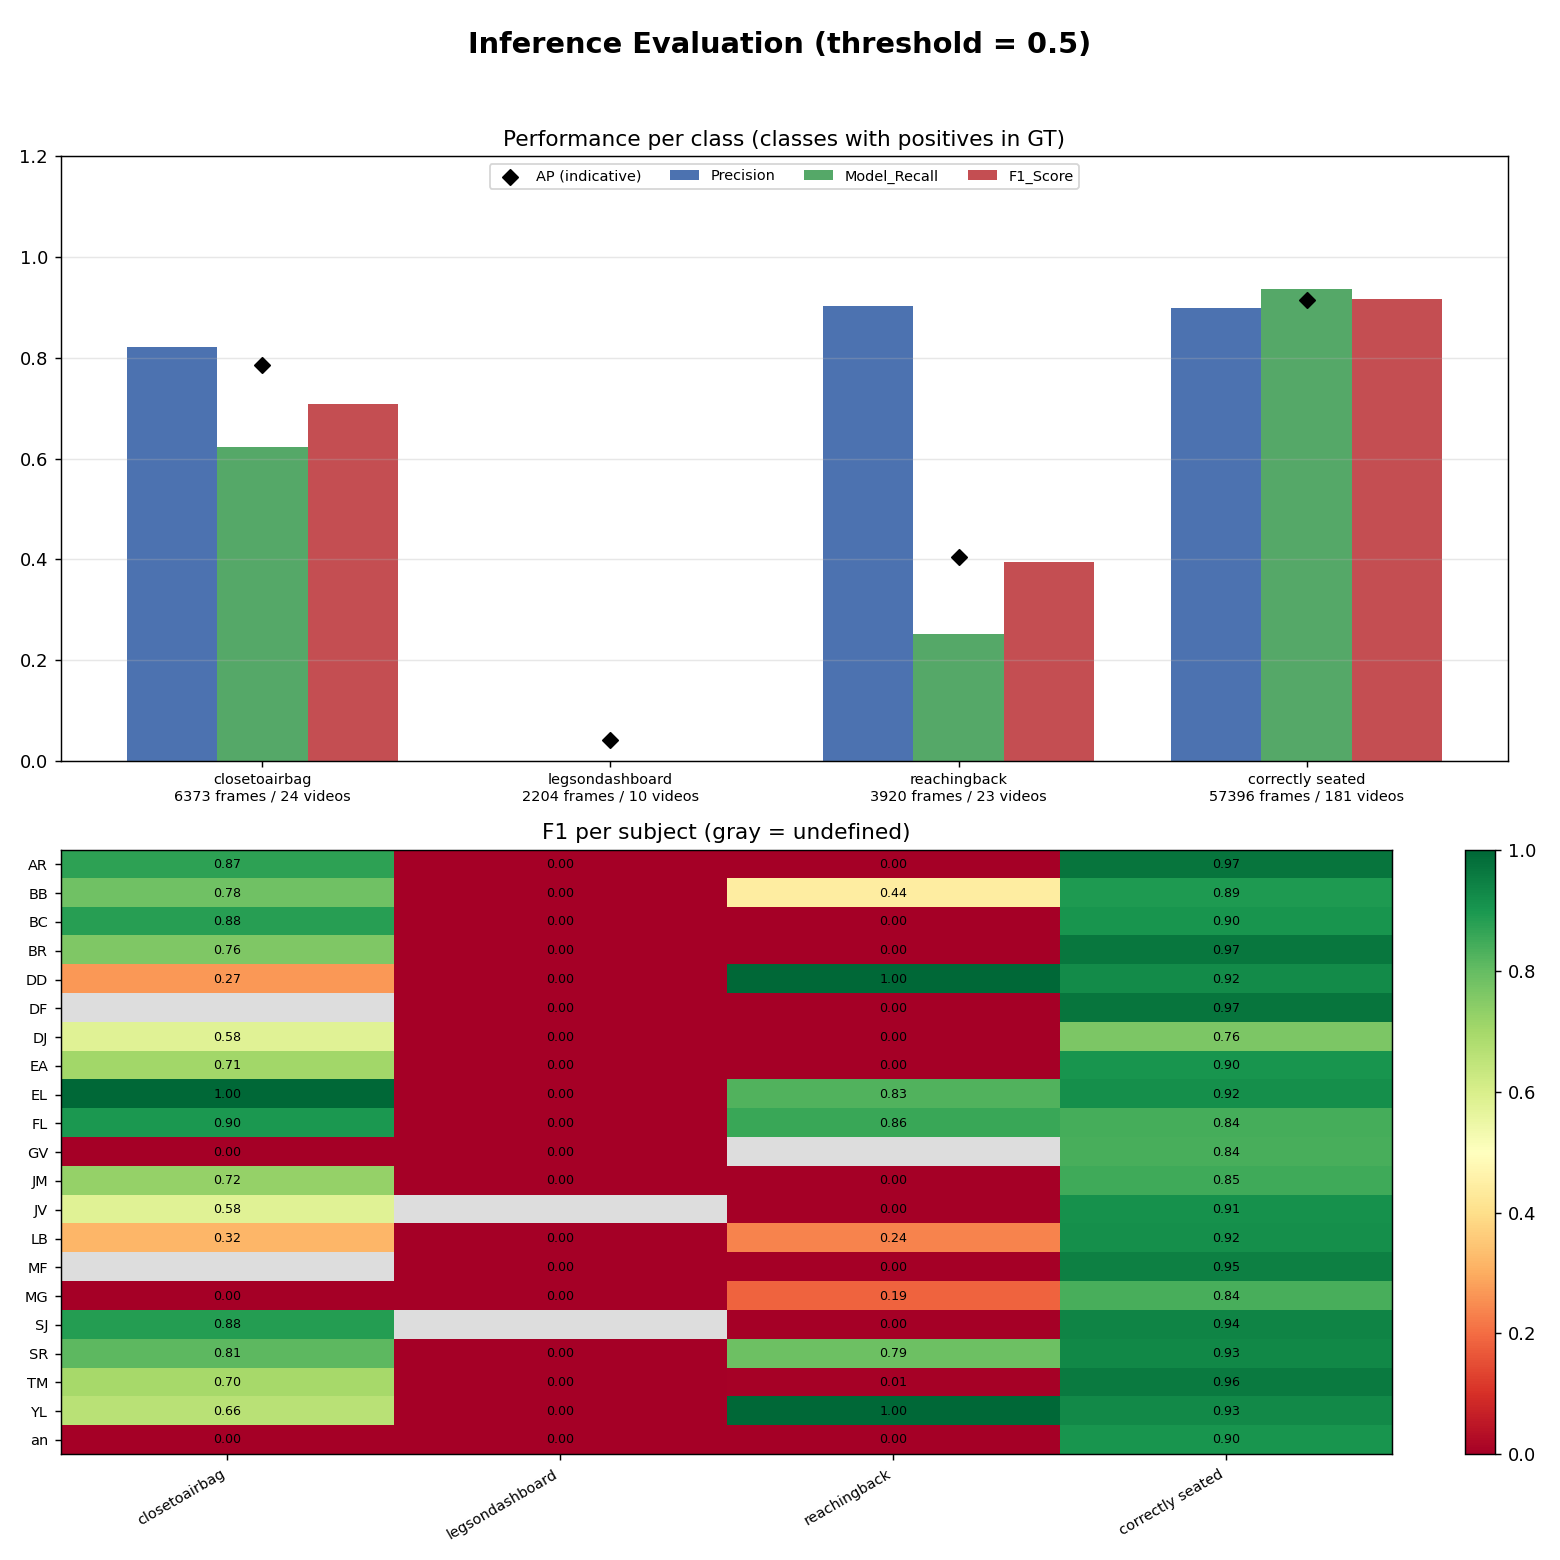
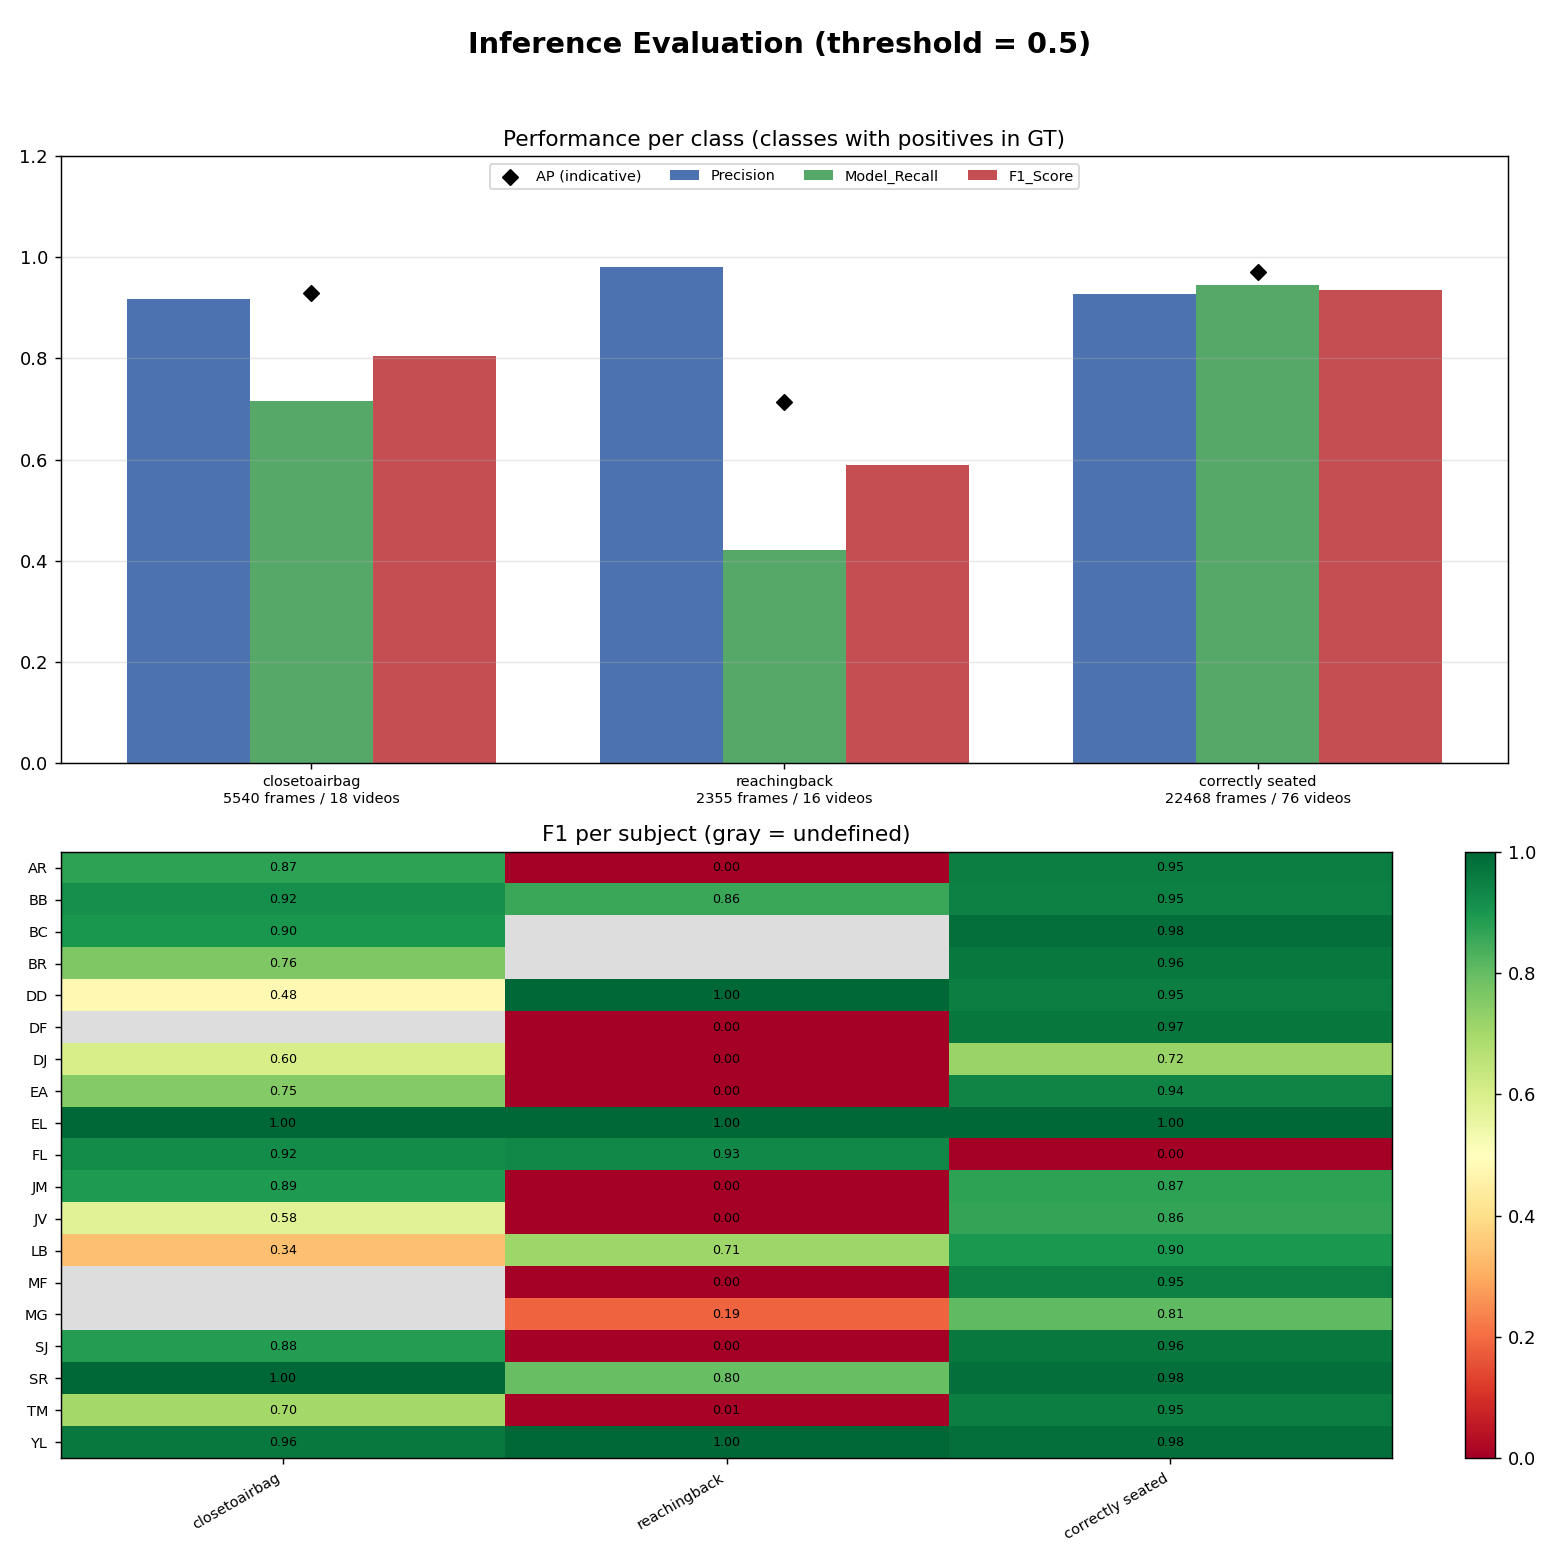
correction de la maniere dont on attribue les kpi au passager et au driver

diff --git a/scratch/OoP/python_inference/src/build/evaluate_kpis_updated_bbox_cx.py b/scratch/OoP/python_inference/src/build/evaluate_kpis_updated_bbox_cx.py
@@ -245,7 +245,7 @@ def extract_seat_dataframe(df_pred, seat_condition, total_frames):
 def main():
     parser = argparse.ArgumentParser(description="Calculates KPIs from predictions and GT.")
     parser.add_argument("--predictions_dir", type=str, default="S03/mp4/predictions", help="Folder containing prediction CSVs.")
-    parser.add_argument("--gt_csv", type=str, default="ground_truth_all_videos.csv", help="Generated ground truth CSV file.")
+    parser.add_argument("--gt_csv", type=str, default="ground_truth_all_separated.csv", help="Generated ground truth CSV file.")
     parser.add_argument("--threshold", type=float, default=0.5, help="Confidence threshold.")
     parser.add_argument("--full_detail", action="store_true", help="Keep ALL video x class rows in KPI_per_video.csv.")
     parser.add_argument("--split_x", type=float, default=960.0, help="X coordinate to split Driver (left) from Passenger (right).")
@@ -268,11 +268,12 @@ def main():
         video_base_name = filename.replace("_predictions.csv", "")
         video_mp4_name = f"{video_base_name}.mp4"
 
+        # 1. Vérification de la Ground Truth
         row_gt = df_gt_master[df_gt_master['Video ID'] == video_mp4_name]
         if row_gt.empty:
             continue
-        gt_dict = row_gt[[f"{c}_gt" for c in CPP_CLASS_ORDER]].iloc[0].to_dict()
 
+        # 2. C'EST ICI QU'ON CHARGE df_pred !
         try:
             df_pred = pd.read_csv(pred_path)
         except pd.errors.EmptyDataError:
@@ -281,44 +282,64 @@ def main():
         if "bbox_cx" not in df_pred.columns:
             print(f"⚠ Warning: 'bbox_cx' not found in {filename}. Please update inference script.")
             continue
-
+            
         total_frames = int(df_pred["index"].max()) + 1 if not df_pred.empty else 0
         if total_frames == 0:
             continue
 
-        df_gt_frames = pd.DataFrame([gt_dict] * total_frames)
-        df_gt_frames['index'] = np.arange(total_frames)
+        # 3. Extract and format DRIVER GT
+        gt_dict_dr = row_gt[[f"driver_{c}_gt" for c in CPP_CLASS_ORDER]].iloc[0].to_dict()
+        gt_dict_dr = {k.replace('driver_', ''): v for k, v in gt_dict_dr.items()}
+        df_gt_frames_dr = pd.DataFrame([gt_dict_dr] * total_frames)
+        df_gt_frames_dr['index'] = np.arange(total_frames)
 
-        # 1. Driver (Left Seat)
+        # 4. Extract and format PASSENGER GT
+        gt_dict_pa = row_gt[[f"passenger_{c}_gt" for c in CPP_CLASS_ORDER]].iloc[0].to_dict()
+        gt_dict_pa = {k.replace('passenger_', ''): v for k, v in gt_dict_pa.items()}
+        df_gt_frames_pa = pd.DataFrame([gt_dict_pa] * total_frames)
+        df_gt_frames_pa['index'] = np.arange(total_frames)
+
+        # 5. Vehicle Best GT (Trigger if Driver OR Passenger is OoP)
+        gt_dict_best = {}
+        for c in CPP_CLASS_ORDER:
+            key = f"{c}_gt"
+            if gt_dict_dr[key] == 1 or gt_dict_pa[key] == 1:
+                gt_dict_best[key] = 1 # True positive if at least one occupant is OoP
+            elif gt_dict_dr[key] == -1 and gt_dict_pa[key] == -1:
+                gt_dict_best[key] = -1 # Invalid frame
+            else:
+                gt_dict_best[key] = 0 # Correctly seated
+        
+        df_gt_frames_best = pd.DataFrame([gt_dict_best] * total_frames)
+        df_gt_frames_best['index'] = np.arange(total_frames)
+
+        # --- SEAT EXTRACTION AND MERGING ---
+        
+        # 1. Driver (Left Seat) -> Uses Driver GT
         df_driver = extract_seat_dataframe(df_pred, lambda cx: cx < args.split_x, total_frames)
         if (df_driver[CPP_CLASS_ORDER] != -1.0).any(axis=None):
-            df_merged_dr = pd.merge(df_driver, df_gt_frames, on="index", how="inner")
+            df_merged_dr = pd.merge(df_driver, df_gt_frames_dr, on="index", how="inner")
             df_merged_dr["subject"] = video_base_name.split("_")[0]
             merged_dfs_by_seat["driver"][video_base_name] = df_merged_dr
 
-        # 2. Passenger (Right Seat)
+        # 2. Passenger (Right Seat) -> Uses Passenger GT
         df_passenger = extract_seat_dataframe(df_pred, lambda cx: cx >= args.split_x, total_frames)
         if (df_passenger[CPP_CLASS_ORDER] != -1.0).any(axis=None):
-            df_merged_pa = pd.merge(df_passenger, df_gt_frames, on="index", how="inner")
+            df_merged_pa = pd.merge(df_passenger, df_gt_frames_pa, on="index", how="inner")
             df_merged_pa["subject"] = video_base_name.split("_")[0]
             merged_dfs_by_seat["passenger"][video_base_name] = df_merged_pa
 
-        # 3. Vehicle Best (Strict Max Pooling - requires BOTH seats if they were ever tracked)
+        # 3. Vehicle Best (Strict Max Pooling) -> Uses Best GT
         df_pooled = pd.DataFrame({"index": np.arange(total_frames)})
         for cls in CPP_CLASS_ORDER:
-            # Replace -1.0 with NaN for max calculation
             s_dr = df_driver[cls].replace(-1.0, np.nan)
             s_pa = df_passenger[cls].replace(-1.0, np.nan)
-            
-            # ---> CORRECTION DU WARNING ICI <---
-            # Utilise pd.concat au lieu de np.fmax pour ignorer proprement les NaN
             df_pooled[cls] = pd.concat([s_dr, s_pa], axis=1).max(axis=1).fillna(-1.0)
             
         if (df_pooled[CPP_CLASS_ORDER] != -1.0).any(axis=None):
-            df_merged_best = pd.merge(df_pooled, df_gt_frames, on="index", how="inner")
+            df_merged_best = pd.merge(df_pooled, df_gt_frames_best, on="index", how="inner")
             df_merged_best["subject"] = video_base_name.split("_")[0]
             merged_dfs_by_seat["vehicle_best"][video_base_name] = df_merged_best
-
     # --- GENERATE AUTOMATIC RESULTS ---
     for seat_name, merged_dfs_dict in merged_dfs_by_seat.items():
         if not merged_dfs_dict:
